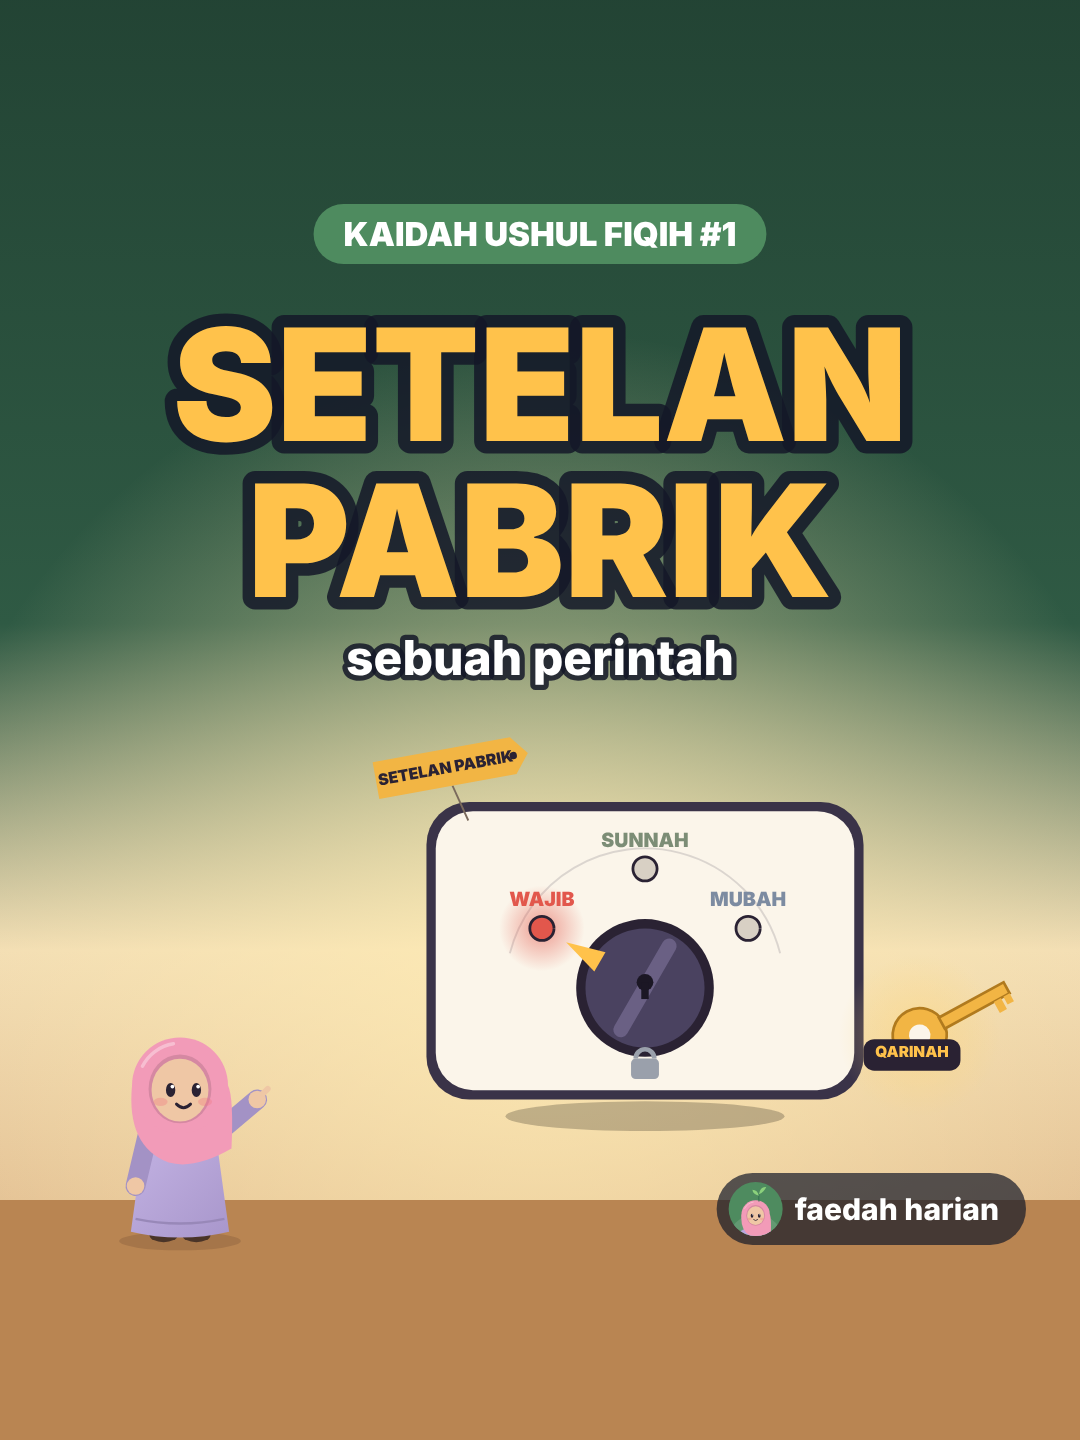
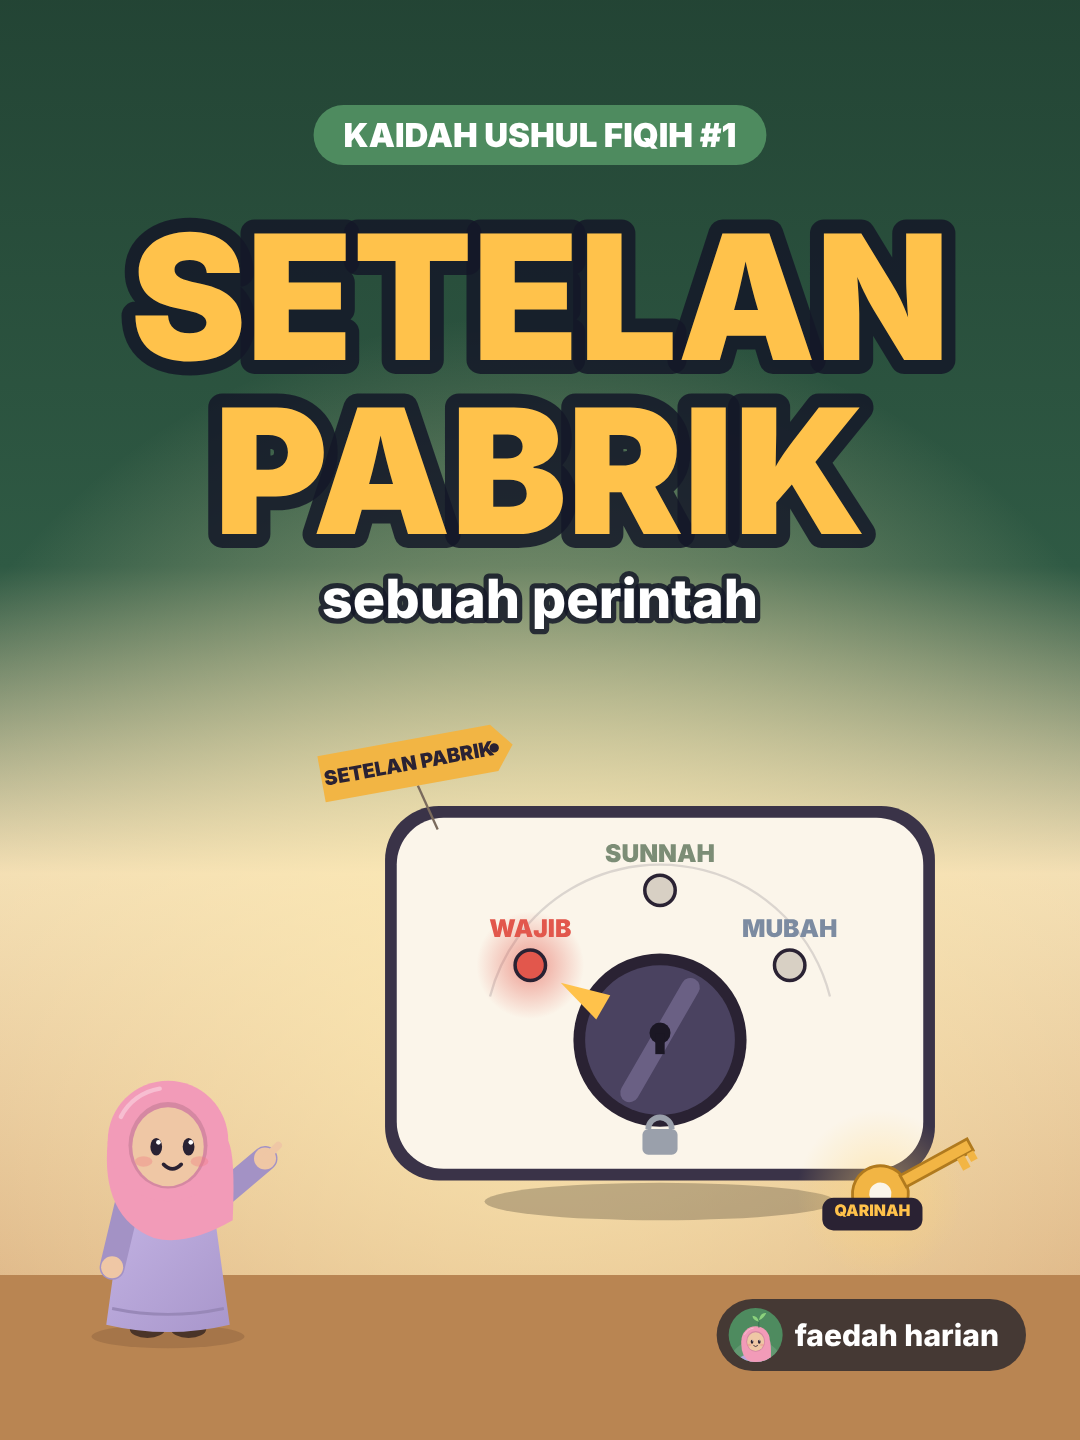
Cover ep03-ep05: tetap 9:16, dirancang penuh untuk potongan 4:5 feed IG
Zona aman cover kini potongan tengah 4:5 (y 205-1075): judul, gambar
utama, dan Rifda diperbesar mengisi bingkai 4:5. cover.js menyimpan
cover.png + cover-4x5.png + cover-3x4.png (1x1 dihapus).

Claude-Session: https://claude.ai/code/session_01WEX9yevViN53HCCwPZdZQM

diff --git a/video/engine/lib.js b/video/engine/lib.js
@@ -290,15 +290,15 @@ function S_follow(T) {
   drawRifda(W / 2, 906 + (1 - rk) * 80, 1.45, { arms: 'wave', mood: 1, talk: talkVO(T) });
 }
 // ---------- cover yang aman untuk feed ----------
-// Grid IG/TikTok memotong cover 9:16 ke tengah (3:4 = y 160..1120, 1:1 = y 280..1000 logis).
-// Semua isi penting ditaruh di zona 1:1 (y 290..990); di luar zona itu hanya latar.
-const COVER_AMAN = { atas: 290, bawah: 990 };
+// Cover tetap 9:16 (Reels), tapi isi penting dirancang untuk potongan tengah 4:5 (feed IG:
+// y 190..1090 logis; grid 3:4 = y 160..1120 ikut aman). Di luar zona itu hanya latar.
+const COVER_AMAN = { atas: 205, bawah: 1075 };
 // judul cover rata tengah: kapsul seri, baris judul besar (ukuran otomatis), subjudul; mengembalikan y bawahnya
 function coverJudul(seri, baris, sub, o = {}) {
   ctx.save(); ctx.textAlign = 'center'; ctx.textBaseline = 'alphabetic';
-  let y = o.y || 318;
+  let y = o.y || 252;
   if (seri) { ctx.font = '900 22px Inter'; const w = ctx.measureText(seri).width + 40; ctx.fillStyle = o.seriBg || B.daun; roundRect(W / 2 - w / 2, y - 22, w, 40, 20); ctx.fill(); ctx.fillStyle = '#fff'; ctx.fillText(seri, W / 2, y + 6); y += 30; }
-  let size = o.size || 104; ctx.font = `900 ${size}px Inter`;
+  let size = o.size || 116; ctx.font = `900 ${size}px Inter`;
   const maxW = Math.max(...baris.map(l => ctx.measureText(l).width)); if (maxW > 650) size = Math.floor(size * 650 / maxW);
   ctx.font = `900 ${size}px Inter`; ctx.lineJoin = 'round';
   baris.forEach((l, i) => {
@@ -306,11 +306,11 @@ function coverJudul(seri, baris, sub, o = {}) {
     ctx.lineWidth = size * .16; ctx.strokeStyle = o.garis || 'rgba(20,24,40,.85)'; ctx.strokeText(l, W / 2, y);
     ctx.fillStyle = (o.warna || [AMBER])[i % (o.warna || [AMBER]).length]; ctx.fillText(l, W / 2, y);
   });
-  if (sub) { y += 52; ctx.font = '800 32px Inter'; ctx.lineWidth = 7; ctx.strokeStyle = o.garis || 'rgba(20,24,40,.85)'; ctx.strokeText(sub, W / 2, y); ctx.fillStyle = '#fff'; ctx.fillText(sub, W / 2, y); }
+  if (sub) { y += 56; ctx.font = '800 36px Inter'; ctx.lineWidth = 7; ctx.strokeStyle = o.garis || 'rgba(20,24,40,.85)'; ctx.strokeText(sub, W / 2, y); ctx.fillStyle = '#fff'; ctx.fillText(sub, W / 2, y); }
   ctx.restore(); return y;
 }
 // logo kecil "faedah harian" di pojok kanan bawah zona aman
-function coverLogo(y = 968) {
+function coverLogo(y = 1042) {
   ctx.save(); ctx.font = '800 20px Inter'; const w = ctx.measureText('faedah harian').width + 70;
   ctx.fillStyle = 'rgba(20,24,40,.7)'; roundRect(W - 36 - w, y - 26, w, 48, 24); ctx.fill();
   iconB(W - 36 - w + 26, y - 2, 18); ctx.fillStyle = '#fff'; ctx.textAlign = 'left'; ctx.fillText('faedah harian', W - 36 - w + 52, y + 5); ctx.restore();

diff --git a/video/ep04/render.html b/video/ep04/render.html
@@ -307,14 +307,14 @@ function sfxEvents() {
 // cover Reels (gambar diam untuk grid profil)
 function drawCover() {
   NT = 0; ctx.setTransform(SS, 0, 0, SS, 0, 0); ctx.clearRect(0, 0, W, H);
-  // latar penuh 9:16; isi penting di zona aman tengah (lihat COVER_AMAN di lib.js)
-  sky([[0, '#1E3B2E'], [.45, '#2F5A44'], [.6, '#EAF2EC'], [1, '#7FA98A']]);
-  const g = ctx.createRadialGradient(W / 2, 800, 30, W / 2, 800, 420); g.addColorStop(0, 'rgba(255,236,180,.7)'); g.addColorStop(1, 'rgba(255,236,180,0)'); ctx.fillStyle = g; ctx.fillRect(0, 0, W, H);
-  ctx.fillStyle = '#7FA98A'; ctx.fillRect(0, 980, W, H);
-  coverJudul('KAIDAH USHUL FIQIH #2', ['1 PERINTAH', '2 SISI'], 'nggak ada larangannya? yakin?', { y: 318 });
-  koin(330, 770, 112, 0, R => { centang(0, -R * .1, 1.4, HIJAU); teksKoin('KERJAKAN', '')(R); }, () => {});
-  koin(545, 840, 100, 1, () => {}, R => { silang(0, -R * .1, 1.25, MERAH); teksKoin('TINGGALKAN', 'lawannya')(R); });
-  drawRifda(110, 985, .78, { arms: 'point', look: .6, mood: 1 });
+  // 9:16 untuk Reels; isi penting di zona potongan 4:5 (COVER_AMAN di lib.js)
+  sky([[0, '#1E3B2E'], [.42, '#2F5A44'], [.56, '#EAF2EC'], [1, '#7FA98A']]);
+  const g = ctx.createRadialGradient(W / 2, 830, 30, W / 2, 830, 460); g.addColorStop(0, 'rgba(255,236,180,.7)'); g.addColorStop(1, 'rgba(255,236,180,0)'); ctx.fillStyle = g; ctx.fillRect(0, 0, W, H);
+  ctx.fillStyle = '#7FA98A'; ctx.fillRect(0, 1030, W, H);
+  coverJudul('KAIDAH USHUL FIQIH #2', ['1 PERINTAH', '2 SISI'], 'nggak ada larangannya? yakin?');
+  koin(335, 790, 140, 0, R => { centang(0, -R * .1, 1.75, HIJAU); teksKoin('KERJAKAN', '')(R); }, () => {});
+  koin(560, 870, 118, 1, () => {}, R => { silang(0, -R * .1, 1.45, MERAH); teksKoin('TINGGALKAN', 'lawannya')(R); });
+  drawRifda(108, 1048, .98, { arms: 'point', look: .6, mood: 1 });
   coverLogo();
 }
 exportEpisode();

diff --git a/video/ep03/render.html b/video/ep03/render.html
@@ -402,15 +402,15 @@ function sfxEvents() {
 // cover Reels (gambar diam untuk grid profil)
 function drawCover() {
   NT = 0; ctx.setTransform(SS, 0, 0, SS, 0, 0); ctx.clearRect(0, 0, W, H);
-  // latar penuh 9:16; isi penting di zona aman tengah (lihat COVER_AMAN di lib.js)
-  sky([[0, '#1E3B2E'], [.45, '#2F5A44'], [.62, '#F2DDB4'], [1, '#C98E5A']]);
-  const g = ctx.createRadialGradient(W / 2, 800, 30, W / 2, 800, 420); g.addColorStop(0, 'rgba(255,236,180,.75)'); g.addColorStop(1, 'rgba(255,236,180,0)'); ctx.fillStyle = g; ctx.fillRect(0, 0, W, H);
-  ctx.fillStyle = '#B98552'; ctx.fillRect(0, 960, W, H);
-  coverJudul('KAIDAH USHUL FIQIH #1', ['SETELAN', 'PABRIK'], 'sebuah perintah', { y: 318 });
-  saklar(430, 800, .62, 0, { tag: 1, lock: 1 });
-  kunci(650, 830, .6, -.5, 'QARINAH');
-  drawRifda(120, 985, .78, { arms: 'point', look: .6, mood: 1 });
-  coverLogo();
+  // 9:16 untuk Reels; isi penting di zona potongan 4:5 (COVER_AMAN di lib.js)
+  sky([[0, '#1E3B2E'], [.42, '#2F5A44'], [.58, '#F2DDB4'], [1, '#C98E5A']]);
+  const g = ctx.createRadialGradient(W / 2, 830, 30, W / 2, 830, 460); g.addColorStop(0, 'rgba(255,236,180,.75)'); g.addColorStop(1, 'rgba(255,236,180,0)'); ctx.fillStyle = g; ctx.fillRect(0, 0, W, H);
+  ctx.fillStyle = '#B98552'; ctx.fillRect(0, 1010, W, H);
+  coverJudul('KAIDAH USHUL FIQIH #1', ['SETELAN', 'PABRIK'], 'sebuah perintah');
+  saklar(440, 830, .78, 0, { tag: 1, lock: 1 });
+  kunci(625, 935, .62, -.5, 'QARINAH');
+  drawRifda(112, 1048, .98, { arms: 'point', look: .6, mood: 1 });
+  coverLogo(1052);
 }
 exportEpisode();
 </script>

diff --git a/.claude/skills/animasi-faedah-harian/assets/template.html b/.claude/skills/animasi-faedah-harian/assets/template.html
@@ -76,14 +76,14 @@ function sfxEvents() {
   add(VO_END + .2, 'title'); add(VO_END + 1.0, 'leaf_on'); add(VO_END + 1.7, 'place', { k: 5 });
   return ev.sort((a, b) => a.t - b.t);
 }
-// cover: isi penting HANYA di zona aman 1:1 (y 290..990) supaya utuh di Reels 9:16, grid 3:4, dan feed 1:1.
-// cover.js menyimpan cover.png + cover-3x4.png + cover-1x1.png. Contoh: ../ep05/render.html.
+// cover: tetap 9:16 (Reels), isi penting di zona potongan 4:5 feed IG (COVER_AMAN, y 205..1075), isi bingkainya penuh.
+// cover.js menyimpan cover.png + cover-4x5.png + cover-3x4.png. Contoh: ../ep05/render.html.
 function drawCover() {
   NT = 0; ctx.setTransform(SS, 0, 0, SS, 0, 0); ctx.clearRect(0, 0, W, H);
   sky([[0, '#14324A'], [.45, '#1E4A5E'], [.6, '#FFF1DA'], [1, '#CFE2EC']]);   // latar penuh, atas gelap untuk judul
-  coverJudul('__JUDUL_KECIL__', ['__JUDUL_BESAR__'], 'ganti subjudul pendek', { y: 318 });   // judul 1–2 baris, ±2 kata per baris
-  // perumpamaan utama di y ±620..960, misalnya jembatan(30, 1, 1) dengan ctx.translate
-  drawRifda(105, 985, .78, { arms: 'point', look: .6, mood: 1 });
+  coverJudul('__JUDUL_KECIL__', ['__JUDUL_BESAR__'], 'ganti subjudul pendek');   // judul 1–2 baris, ±2 kata per baris
+  // perumpamaan utama besar di y ±650..1000, misalnya ctx.translate(-62, 205); ctx.scale(1.1, 1.1); jembatan(30, 1, 1)
+  drawRifda(100, 1048, .98, { arms: 'point', look: .6, mood: 1 });
   coverLogo();
 }
 exportEpisode();

diff --git a/video/ep05/render.html b/video/ep05/render.html
@@ -289,12 +289,12 @@ function sfxEvents() {
 // cover Reels (gambar diam untuk grid profil)
 function drawCover() {
   NT = 0; ctx.setTransform(SS, 0, 0, SS, 0, 0); ctx.clearRect(0, 0, W, H);
-  // latar penuh 9:16; isi penting di zona aman tengah (lihat COVER_AMAN di lib.js)
-  sky([[0, '#14324A'], [.45, '#1E4A5E'], [.6, '#FFF1DA'], [1, '#CFE2EC']]);
-  ctx.save(); ctx.translate(0, 160); jembatan(30, 1, 1); drawDafa(330, 694, .72, { t: 1, mood: 1, arms: 'lift', up: 1, target: 'cheer' }); ctx.restore();
-  coverJudul('KAIDAH USHUL FIQIH #3', ['HAL MUBAH', 'JADI WAJIB?'], 'rahasia jembatan kewajiban', { y: 318 });
-  drawRifda(105, 985, .78, { arms: 'point', look: .6, mood: 1 });
-  coverLogo(974);
+  // 9:16 untuk Reels; isi penting di zona potongan 4:5 (COVER_AMAN di lib.js)
+  sky([[0, '#14324A'], [.42, '#1E4A5E'], [.56, '#FFF1DA'], [1, '#CFE2EC']]);
+  ctx.save(); ctx.translate(-62, 205); ctx.scale(1.1, 1.1); jembatan(30, 1, 1); drawDafa(330, 694, .8, { t: 1, mood: 1, arms: 'lift', up: 1, target: 'cheer' }); ctx.restore();
+  coverJudul('KAIDAH USHUL FIQIH #3', ['HAL MUBAH', 'JADI WAJIB?'], 'rahasia jembatan kewajiban');
+  drawRifda(100, 1048, .98, { arms: 'point', look: .6, mood: 1 });
+  coverLogo(1052);
 }
 exportEpisode();
 </script>

diff --git a/video/ep03/cover.js b/video/ep03/cover.js
@@ -1,4 +1,4 @@
-// Render cover: node epNN/cover.js out.png → out.png (9:16 Reels) + out-3x4.png (grid IG/TikTok) + out-1x1.png (feed)
+// Render cover: node epNN/cover.js out.png → out.png (9:16 Reels) + out-3x4.png (grid IG/TikTok) + out-4x5.png (feed IG)
 const { chromium } = require('playwright'); const path = require('path');
 (async () => { const b = await chromium.launch(); const p = await b.newPage({ viewport: { width: 1080, height: 1920 } });
   p.on('pageerror', e => console.error('PAGEERR', e.message));
@@ -7,5 +7,5 @@ const { chromium } = require('playwright'); const path = require('path');
   const out = process.argv[2], base = out.replace(/\.png$/, '');
   await p.screenshot({ path: out, clip: { x: 0, y: 0, width: 1080, height: 1920 } });
   await p.screenshot({ path: base + '-3x4.png', clip: { x: 0, y: 240, width: 1080, height: 1440 } });
-  await p.screenshot({ path: base + '-1x1.png', clip: { x: 0, y: 420, width: 1080, height: 1080 } });
+  await p.screenshot({ path: base + '-4x5.png', clip: { x: 0, y: 285, width: 1080, height: 1350 } });
   await b.close(); })();

diff --git a/video/ep04/cover.js b/video/ep04/cover.js
@@ -1,4 +1,4 @@
-// Render cover: node epNN/cover.js out.png → out.png (9:16 Reels) + out-3x4.png (grid IG/TikTok) + out-1x1.png (feed)
+// Render cover: node epNN/cover.js out.png → out.png (9:16 Reels) + out-3x4.png (grid IG/TikTok) + out-4x5.png (feed IG)
 const { chromium } = require('playwright'); const path = require('path');
 (async () => { const b = await chromium.launch(); const p = await b.newPage({ viewport: { width: 1080, height: 1920 } });
   p.on('pageerror', e => console.error('PAGEERR', e.message));
@@ -7,5 +7,5 @@ const { chromium } = require('playwright'); const path = require('path');
   const out = process.argv[2], base = out.replace(/\.png$/, '');
   await p.screenshot({ path: out, clip: { x: 0, y: 0, width: 1080, height: 1920 } });
   await p.screenshot({ path: base + '-3x4.png', clip: { x: 0, y: 240, width: 1080, height: 1440 } });
-  await p.screenshot({ path: base + '-1x1.png', clip: { x: 0, y: 420, width: 1080, height: 1080 } });
+  await p.screenshot({ path: base + '-4x5.png', clip: { x: 0, y: 285, width: 1080, height: 1350 } });
   await b.close(); })();

diff --git a/video/ep05/cover.js b/video/ep05/cover.js
@@ -1,4 +1,4 @@
-// Render cover: node epNN/cover.js out.png → out.png (9:16 Reels) + out-3x4.png (grid IG/TikTok) + out-1x1.png (feed)
+// Render cover: node epNN/cover.js out.png → out.png (9:16 Reels) + out-3x4.png (grid IG/TikTok) + out-4x5.png (feed IG)
 const { chromium } = require('playwright'); const path = require('path');
 (async () => { const b = await chromium.launch(); const p = await b.newPage({ viewport: { width: 1080, height: 1920 } });
   p.on('pageerror', e => console.error('PAGEERR', e.message));
@@ -7,5 +7,5 @@ const { chromium } = require('playwright'); const path = require('path');
   const out = process.argv[2], base = out.replace(/\.png$/, '');
   await p.screenshot({ path: out, clip: { x: 0, y: 0, width: 1080, height: 1920 } });
   await p.screenshot({ path: base + '-3x4.png', clip: { x: 0, y: 240, width: 1080, height: 1440 } });
-  await p.screenshot({ path: base + '-1x1.png', clip: { x: 0, y: 420, width: 1080, height: 1080 } });
+  await p.screenshot({ path: base + '-4x5.png', clip: { x: 0, y: 285, width: 1080, height: 1350 } });
   await b.close(); })();

diff --git a/.claude/skills/animasi-faedah-harian/SKILL.md b/.claude/skills/animasi-faedah-harian/SKILL.md
@@ -128,12 +128,13 @@ Di `video/epNN/render.html`:
      meloncat, `ding` atau `scratch` di pertanyaan ("Kok bisa?"), `riser` menjelang hantaman;
    - visual hook: judul besar menghantam di detik pertama, kontras tinggi. Contoh: `video/ep05/`.
 5. **Isi `sfxEvents()`** di momen penting saja. Jangan memberi SFX di setiap gerakan.
-6. **Buat `drawCover()` yang aman untuk feed.** Grid IG/TikTok memotong cover 9:16 ke tengah
-   (3:4, dan 1:1 di beberapa tampilan). Taruh semua isi penting di **zona aman 1:1 (y 290–990
-   logis)**: `coverJudul(seri, [baris], sub)` rata tengah dengan huruf besar bergaris, perumpamaan
-   utama di y ±620–960, Rifda kecil di kiri bawah, `coverLogo()` di kanan bawah. Di luar zona
-   hanya latar. `cover.js` menyimpan `cover.png` (9:16), `cover-3x4.png`, dan `cover-1x1.png`;
-   cek ketiganya dan kirim ketiganya ke pemilik akun.
+6. **Buat `drawCover()`: tetap 9:16 untuk Reels, tapi enak dilihat saat dipotong 4:5.** Feed IG
+   memotong cover ke tengah **4:5 (y 190–1090 logis)**; grid 3:4 ikut aman. Isi penting di zona
+   `COVER_AMAN` (y 205–1075) dan isi bingkai 4:5 itu dengan penuh: `coverJudul(seri, [baris], sub)`
+   rata tengah huruf besar bergaris (mulai y 252), perumpamaan utama besar di y ±650–1000, Rifda
+   (skala ±.98, tanah 1048) di kiri bawah, `coverLogo()` di kanan bawah (y ±1045). Di luar zona
+   hanya latar. `cover.js` menyimpan `cover.png` (9:16), `cover-4x5.png`, `cover-3x4.png`; cek
+   potongan 4:5 (jangan ada yang bertabrakan) lalu kirim ketiganya ke pemilik akun.
 
 Struktur adegan ep05 yang terbukti bagus (sesuaikan dengan isi VO):
 

diff --git a/video/SOP.md b/video/SOP.md
@@ -236,7 +236,7 @@ node video/karakter/shot.js video/karakter/sheet.html lembar.png
 | Logo C (فَائِدَة يَوْمِيَّة) | Edisi khusus, misalnya Ramadan → `logo-C.png` |
 | Watermark video | `logo/watermark.png`, putih, pojok kiri atas, opasitas ±55% |
 | Kartu penutup | Latar hijau tua, logo B, "Follow @faedahharian.official", Rifda melambai, tombol "+ Follow" |
-| Cover Reels | Semua isi di zona tengah 1:1 (aman untuk grid 3:4 & feed 1:1): kapsul seri, judul besar rata tengah bergaris, perumpamaan utama, Rifda kecil menunjuk, logo kecil kanan bawah; latar mengikuti isi. Disimpan 9:16 + 3:4 + 1:1 |
+| Cover Reels | Ukuran 9:16, semua isi di zona potongan tengah 4:5 (feed IG; grid 3:4 ikut aman): kapsul seri, judul besar rata tengah bergaris, perumpamaan utama, Rifda kecil menunjuk, logo kecil kanan bawah; latar mengikuti isi. Disimpan 9:16 + 4:5 + 3:4 |
 
 **Bio:**
 ```

diff --git a/.claude/skills/animasi-faedah-harian/references/engine.md b/.claude/skills/animasi-faedah-harian/references/engine.md
@@ -87,8 +87,8 @@ Pose shalat:
 | `S_follow(T)` | kartu follow + Rifda yang mulutnya bergerak (pakai bila ajakan follow masih diucapkan) |
 | `hexA(warna, alpha)` | warna hex → rgba |
 | `coverJudul(seri, [baris], sub, {y})` | judul cover rata tengah, ukuran otomatis, bergaris tebal (terbaca di grid) |
-| `coverLogo(y=968)` | kapsul logo "faedah harian" di kanan bawah zona aman cover |
-| `COVER_AMAN` | zona aman cover `{atas: 290, bawah: 990}` (potongan 1:1 grid) |
+| `coverLogo(y=1042)` | kapsul logo "faedah harian" di kanan bawah zona aman cover |
+| `COVER_AMAN` | zona aman cover `{atas: 205, bawah: 1075}` (potongan tengah 4:5 feed IG) |
 | `hookPunch(T)` | 0..1 tepat setelah tiap `HOOK_HITS` (untuk efek tambahan di adegan hook) |
 
 **Jangan** mendeklarasikan `const` dengan nama fungsi di atas di halaman episode (bentrok).

diff --git a/.claude/skills/animasi-faedah-harian/references/pelajaran.md b/.claude/skills/animasi-faedah-harian/references/pelajaran.md
@@ -70,4 +70,5 @@ render penuh.
 - **Pemilik akun lebih suka langsung dianimasikan**; storyboard disertakan saat menyerahkan hasil.
 - **Cover bagus di Reels tapi jelek di feed (ep03–ep05).** Judul ditaruh di atas (y ±200) dan
   Rifda di bawah, padahal grid IG/TikTok memotong ke 3:4/1:1 di tengah: judul dan logo
-  terpotong. Sekarang isi penting wajib di zona 1:1 (y 290–990), pakai `coverJudul`/`coverLogo`.
+  terpotong. Pemilik akun mau cover tetap 9:16 tapi enak saat dipotong **4:5**: isi penting di
+  zona 4:5 (y 205–1075) dan isi bingkainya penuh, pakai `coverJudul`/`coverLogo`.
